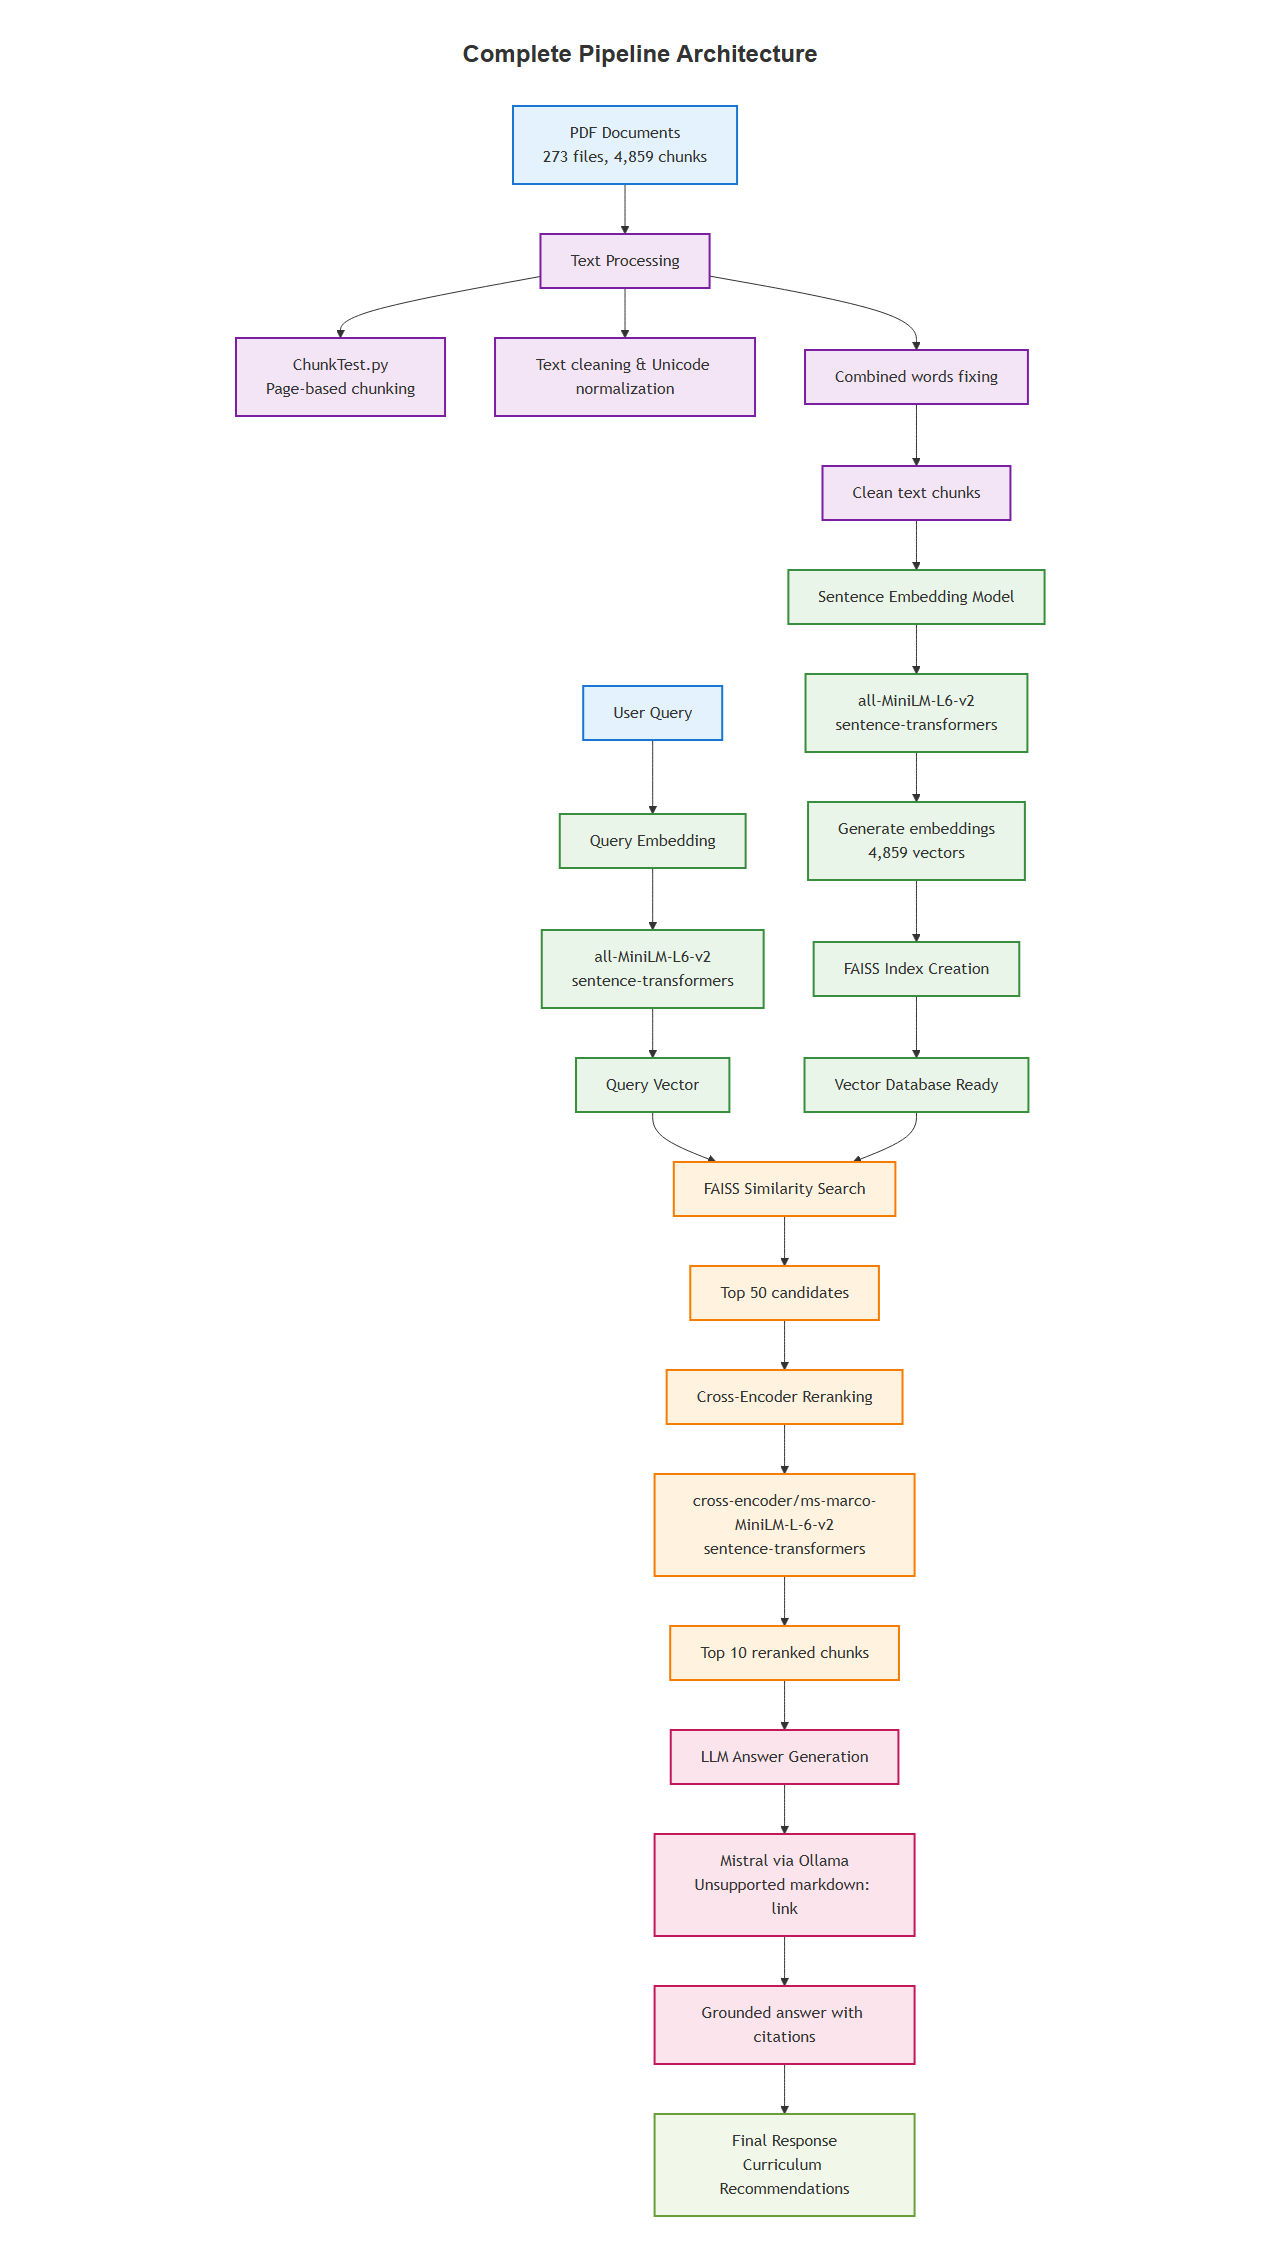
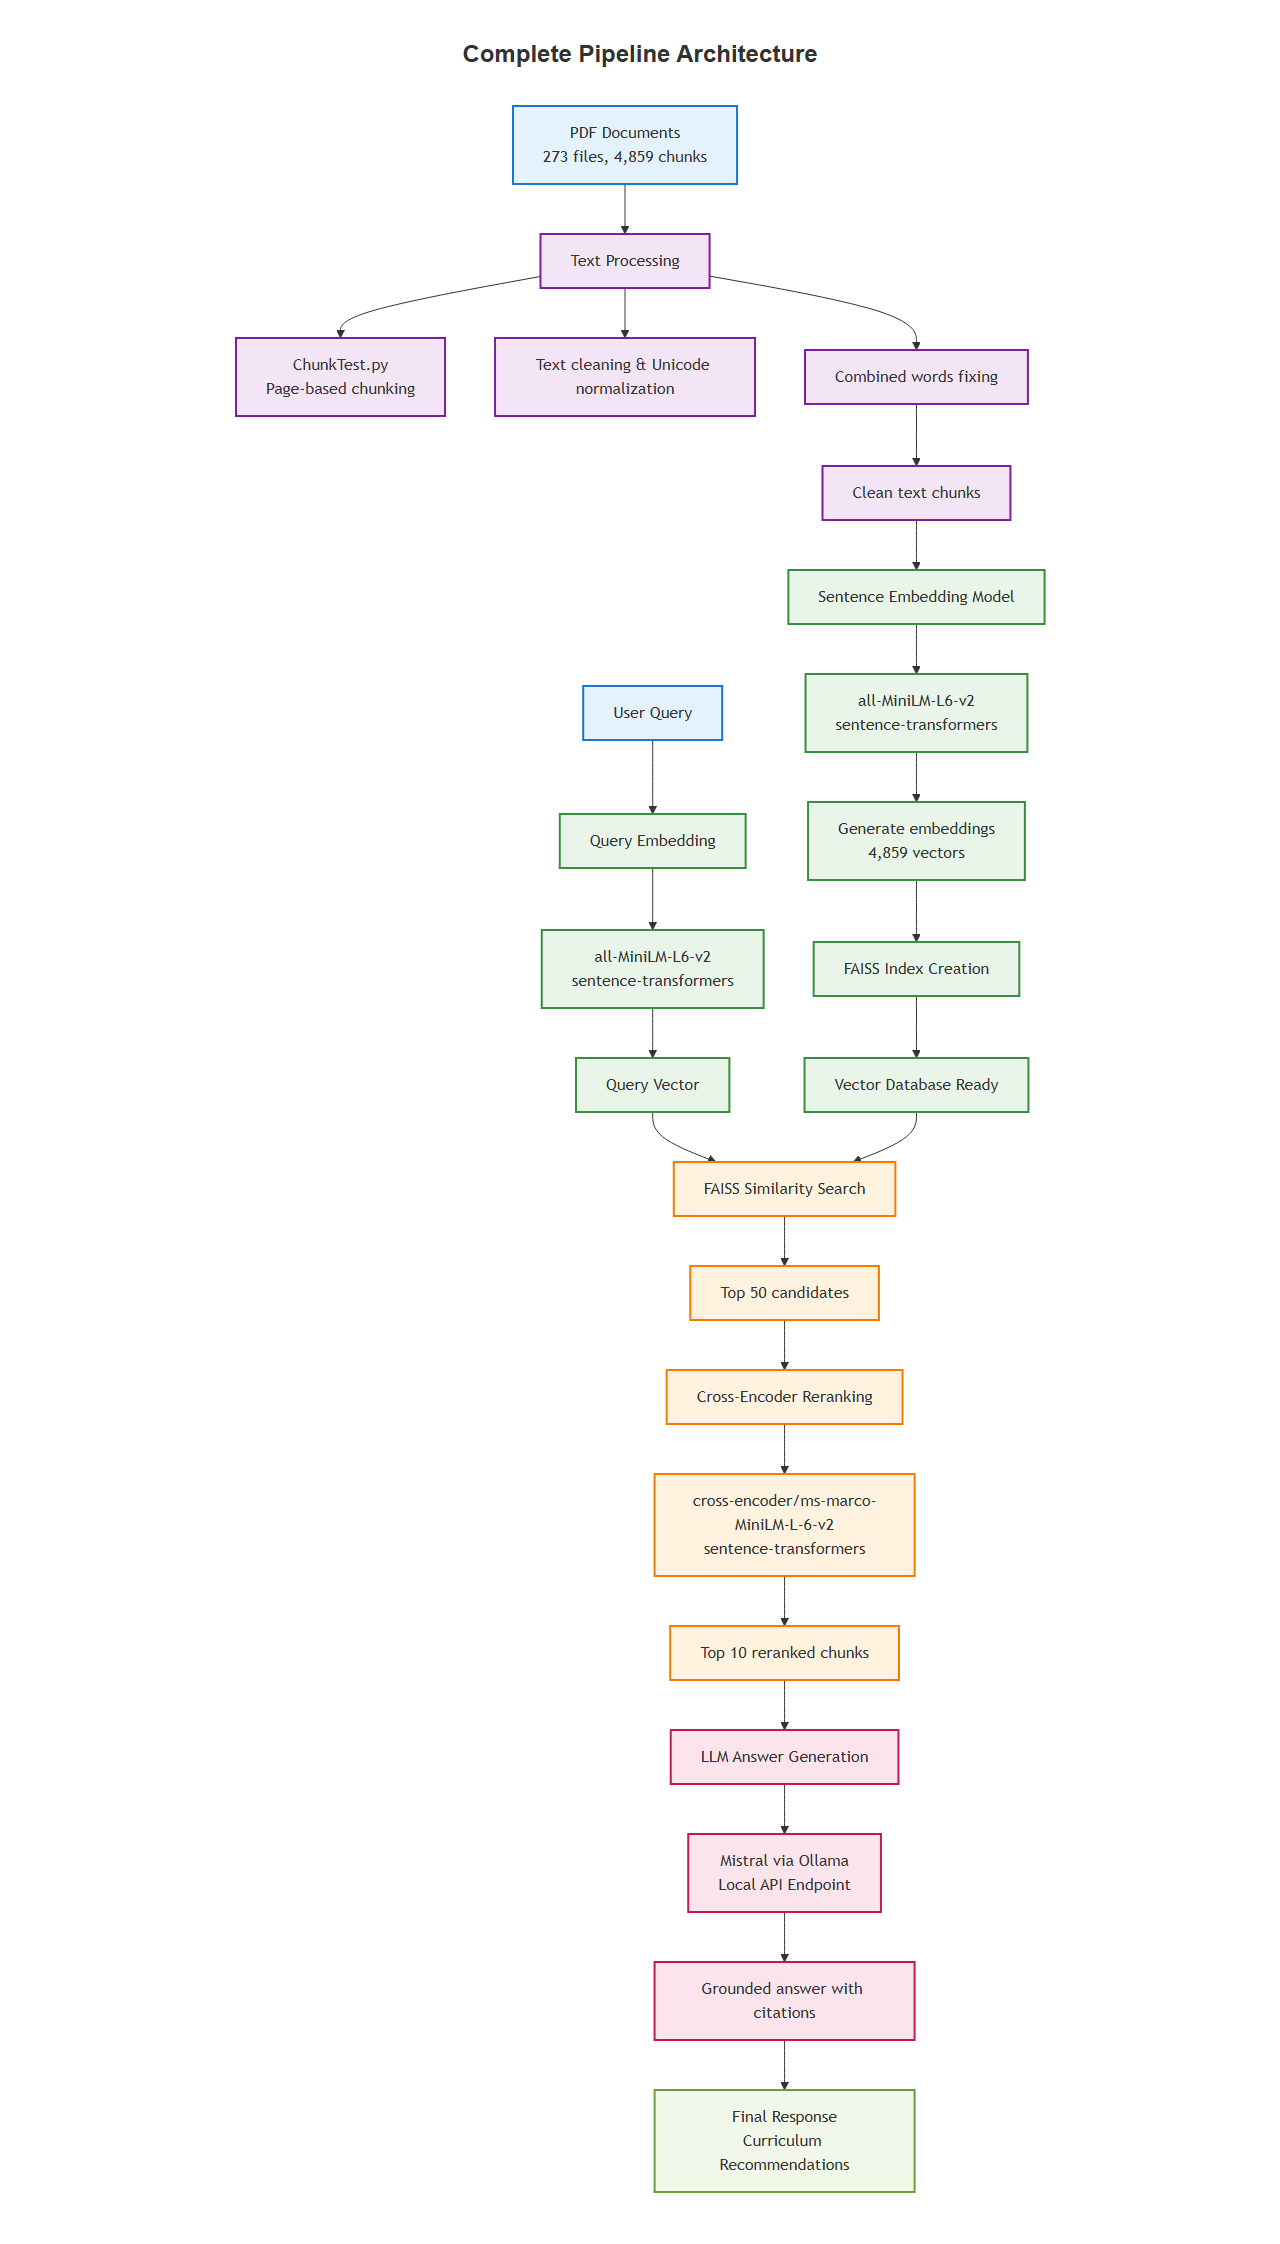
Security fix: Remove localhost endpoint details from documentation and config

Changed region(s): [[0.4375, 0.1248, 0.8125, 0.967], [0.4062, 0.0312, 0.5938, 0.1872], [0.1875, 0.1248, 0.3438, 0.1872]]

diff --git a/generate_pipeline_diagram_simple.py b/generate_pipeline_diagram_simple.py
@@ -1,0 +1,201 @@
+#!/usr/bin/env python3
+"""
+Simple Diagram Generation Script for Scaffold AI Data Pipeline
+Generates a Mermaid flow chart and converts it to an image file using multiple methods.
+"""
+
+import os
+import subprocess
+import sys
+from pathlib import Path
+
+def generate_pipeline_diagram():
+    """Generate the complete data pipeline flow chart in Mermaid format."""
+    
+    mermaid_diagram = '''flowchart TD
+    %% Input Stage
+    A[ACADEMIC PDFS<br/>273 Documents<br/>14.9M+ Characters] --> B[PROJECT SETUP]
+    
+    %% Setup Stage
+    B --> B1[python setup.py]
+    B1 --> B2[Create Directory Structure]
+    B2 --> B3[Validate Configuration]
+    B3 --> B4[Centralized Config Ready]
+    
+    %% Document Processing Stage
+    B4 --> C[DOCUMENT PROCESSING]
+    C --> C1[ChunkTest.py<br/>Page-based Chunking]
+    C --> C2[ChunkTest_Math.py<br/>Math-aware Processing]
+    C1 --> C3[Extract Text by Page]
+    C2 --> C4[Detect Math Content]
+    C3 --> C5[Extract Metadata<br/>Authors, DOIs, Titles]
+    C4 --> C6[Math Analysis]
+    C5 --> C7[4,859 Text Chunks]
+    C6 --> C7
+    
+    %% Text Analysis Stage
+    C7 --> D[TEXT ANALYSIS & CLEANING]
+    D --> D1[generate_unicode_report.py]
+    D --> D2[postprocess_combined_words.py]
+    D --> D3[generate_combined_words_report.py]
+    D1 --> D4[Unicode Analysis<br/>44,367 Unicode Chars<br/>0.30% Content]
+    D2 --> D5[Fix Combined Words<br/>10,262 Total<br/>7,383 Unique]
+    D3 --> D6[Generate Analysis Reports]
+    D4 --> D7[Clean Text Data]
+    D5 --> D7
+    D6 --> D8[Quality Reports]
+    
+    %% Vectorization Stage
+    D7 --> E[VECTORIZATION]
+    E --> E1[transformVector.py]
+    E1 --> E2[Load Cleaned Chunks]
+    E2 --> E3[Final Unicode Cleaning]
+    E3 --> E4[Generate Embeddings<br/>sentence-transformers<br/>all-MiniLM-L6-v2]
+    E4 --> E5[Create FAISS Index]
+    E5 --> E6[Vector Database Ready]
+    
+    %% Output Files
+    E6 --> F1[vector_outputs/embeddings.npy]
+    E6 --> F2[vector_outputs/faiss_index.bin]
+    E6 --> F3[vector_outputs/chunk_metadata.json]
+    
+    %% Search Stage
+    F1 --> G[SEMANTIC SEARCH & RETRIEVAL]
+    F2 --> G
+    F3 --> G
+    G --> G1[query.py - Semantic Search]
+    G --> G2[User Interface]
+    G --> G3[Process User Queries]
+    G --> G4[Retrieve Relevant Chunks]
+    G --> G5[Rank by Similarity]
+    G --> G6[Curriculum Recommendations]
+    
+    %% Reports and Analysis
+    D8 --> H[Analysis Reports]
+    H --> H1[outputs/unicode_report.txt]
+    H --> H2[outputs/combined_words_analysis_report.txt]
+    H --> H3[Processing Statistics]
+    
+    %% Styling with better contrast
+    classDef stage1 fill:#e6f3ff,stroke:#0066cc,stroke-width:2px
+    classDef stage2 fill:#f0f0f0,stroke:#666666,stroke-width:2px
+    classDef stage3 fill:#e6ffe6,stroke:#006600,stroke-width:2px
+    classDef stage4 fill:#fff2e6,stroke:#cc6600,stroke-width:2px
+    classDef stage5 fill:#f0f0ff,stroke:#6600cc,stroke-width:2px
+    classDef stage6 fill:#f5f5f5,stroke:#333333,stroke-width:2px
+    
+    class A,B,B1,B2,B3,B4 stage1
+    class C,C1,C2,C3,C4,C5,C6,C7 stage2
+    class D,D1,D2,D3,D4,D5,D6,D7,D8 stage3
+    class E,E1,E2,E3,E4,E5,E6 stage4
+    class F1,F2,F3 stage5
+    class G,G1,G2,G3,G4,G5,G6,H,H1,H2,H3 stage6'''
+    
+    return mermaid_diagram
+
+def generate_image_with_playwright(mermaid_code, output_path="pipeline_diagram_simple.png"):
+    """Generate image using Playwright."""
+    try:
+        from playwright.sync_api import sync_playwright
+        
+        html_content = f'''
+<!DOCTYPE html>
+<html>
+<head>
+    <script src="https://cdn.jsdelivr.net/npm/mermaid/dist/mermaid.min.js"></script>
+    <style>
+        body {{ 
+            margin: 0; 
+            padding: 40px; 
+            background: white; 
+            font-family: Arial, sans-serif;
+        }}
+        .mermaid {{ 
+            text-align: center; 
+            max-width: 100%;
+            overflow-x: auto;
+        }}
+        .title {{
+            text-align: center;
+            font-size: 24px;
+            font-weight: bold;
+            margin-bottom: 30px;
+            color: #333;
+        }}
+    </style>
+</head>
+<body>
+    <div class="title">Scaffold AI Data Pipeline</div>
+    <div class="mermaid">
+{mermaid_code}
+    </div>
+    <script>
+        mermaid.initialize({{
+            startOnLoad: true,
+            theme: 'default',
+            flowchart: {{
+                useMaxWidth: true,
+                htmlLabels: true
+            }}
+        }});
+    </script>
+</body>
+</html>'''
+        
+        temp_html = "temp_diagram_simple.html"
+        with open(temp_html, 'w', encoding='utf-8') as f:
+            f.write(html_content)
+        
+        with sync_playwright() as p:
+            browser = p.chromium.launch()
+            page = browser.new_page()
+            page.goto(f"file://{os.path.abspath(temp_html)}")
+            page.wait_for_selector('.mermaid svg')
+            # Wait a bit more for rendering to complete
+            page.wait_for_timeout(2000)
+            page.screenshot(path=output_path, full_page=True)
+            browser.close()
+        
+        # Clean up temp file
+        os.remove(temp_html)
+        print(f"✓ Image generated using Playwright: {output_path}")
+        return True
+        
+    except ImportError:
+        print("Playwright not installed. Install with: pip install playwright")
+        return False
+    except Exception as e:
+        print(f"Playwright method failed: {e}")
+        return False
+
+def save_mermaid_file(mermaid_code, output_path="pipeline_diagram_simple.mmd"):
+    """Save the Mermaid code to a file for manual processing."""
+    with open(output_path, 'w', encoding='utf-8') as f:
+        f.write(mermaid_code)
+    print(f"✓ Mermaid code saved to: {output_path}")
+    return output_path
+
+def main():
+    """Main function to generate the pipeline diagram image."""
+    print("Generating Scaffold AI Data Pipeline Diagram (Simple Version)...")
+    
+    # Generate the Mermaid diagram
+    mermaid_code = generate_pipeline_diagram()
+    
+    # Try to generate image with Playwright
+    image_generated = generate_image_with_playwright(mermaid_code)
+    
+    # Fallback: Save Mermaid code
+    if not image_generated:
+        mmd_file = save_mermaid_file(mermaid_code)
+        print(f"\nCould not generate image automatically.")
+        print(f"Mermaid code saved to: {mmd_file}")
+        print("\nTo generate an image manually:")
+        print("1. Install mermaid-cli: npm install -g @mermaid-js/mermaid-cli")
+        print("2. Run: mmdc -i pipeline_diagram_simple.mmd -o pipeline_diagram_simple.png")
+        print("3. Or use online Mermaid editor: https://mermaid.live/")
+    
+    print(f"\nDiagram generation complete!")
+
+if __name__ == "__main__":
+    main() 

diff --git a/scaffold_core/config.py b/scaffold_core/config.py
@@ -38,14 +38,27 @@ def get_metadata_json_path(iteration: int = 1) -> Path:
     return VECTOR_OUTPUTS_DIR / f"scaffold_metadata_{iteration}.json"
 
 # Processing parameters
-CHUNK_SIZE = 500  # in words (unused - now using complete page chunking)
-CHUNK_OVERLAP = 50  # in words (unused - now using complete page chunking)
+CHUNK_SIZE = 1000  # in words (unused - now using complete page chunking)
+CHUNK_OVERLAP = 200  # in words (unused - now using complete page chunking)
 ITERATION = 1  # bump this when you want a fresh run
 
 # Model configuration
-EMBEDDING_MODEL_NAME = "all-MiniLM-L6-v2"
-OLLAMA_MODEL = "mistral"
-OLLAMA_ENDPOINT = "http://localhost:11434/v1/chat/completions"
+EMBEDDING_MODEL = "all-MiniLM-L6-v2"
+
+# LLM configuration
+LLM_MODEL = "mistral"
+# Local API endpoint - configured via environment or local setup
+LLM_ENDPOINT = "local"  # Generic reference, actual endpoint configured separately
+
+# Cross-encoder model for reranking
+CROSS_ENCODER_MODEL = "cross-encoder/ms-marco-MiniLM-L-6-v2"
+
+# FAISS index configuration
+FAISS_INDEX_TYPE = "IndexFlatL2"
+
+# Search configuration
+TOP_K_INITIAL = 50
+TOP_K_FINAL = 10
 
 # Ensure directories exist
 def ensure_directories():

diff --git a/diagrams/generate_model_diagrams.py b/diagrams/generate_model_diagrams.py
@@ -45,7 +45,7 @@ def generate_complete_pipeline_diagram():
     
     %% LLM Answer Generation
     G2 --> H[LLM Answer Generation]
-    H --> H1[Mistral via Ollama<br/>http://localhost:11434]
+    H --> H1[Mistral via Ollama<br/>Local API Endpoint]
     H1 --> H2[Grounded answer with citations]
     
     %% Output
@@ -131,7 +131,7 @@ def generate_llm_diagram():
     subgraph "LLM Details"
         F[Model: Mistral-7B]
         G[Platform: Ollama]
-        H[Endpoint: localhost:11434]
+        H[Endpoint: Local API]
         I[Role: Fact-checking assistant]
         J[Constraint: Quote only from chunks]
     end

diff --git a/documentation/model_architecture_diagrams.md b/documentation/model_architecture_diagrams.md
@@ -41,7 +41,7 @@ flowchart TD
     
     %% LLM Answer Generation
     G2 --> H[LLM Answer Generation]
-    H --> H1[Mistral via Ollama<br/>http://localhost:11434]
+    H --> H1[Mistral via Ollama<br/>Local API Endpoint]
     H1 --> H2[Grounded answer with citations]
     
     %% Output
@@ -125,7 +125,7 @@ flowchart LR
     subgraph "LLM Details"
         F[Model: Mistral-7B]
         G[Platform: Ollama]
-        H[Endpoint: localhost:11434]
+        H[Endpoint: Local API]
         I[Role: Fact-checking assistant]
         J[Constraint: Quote only from chunks]
     end
